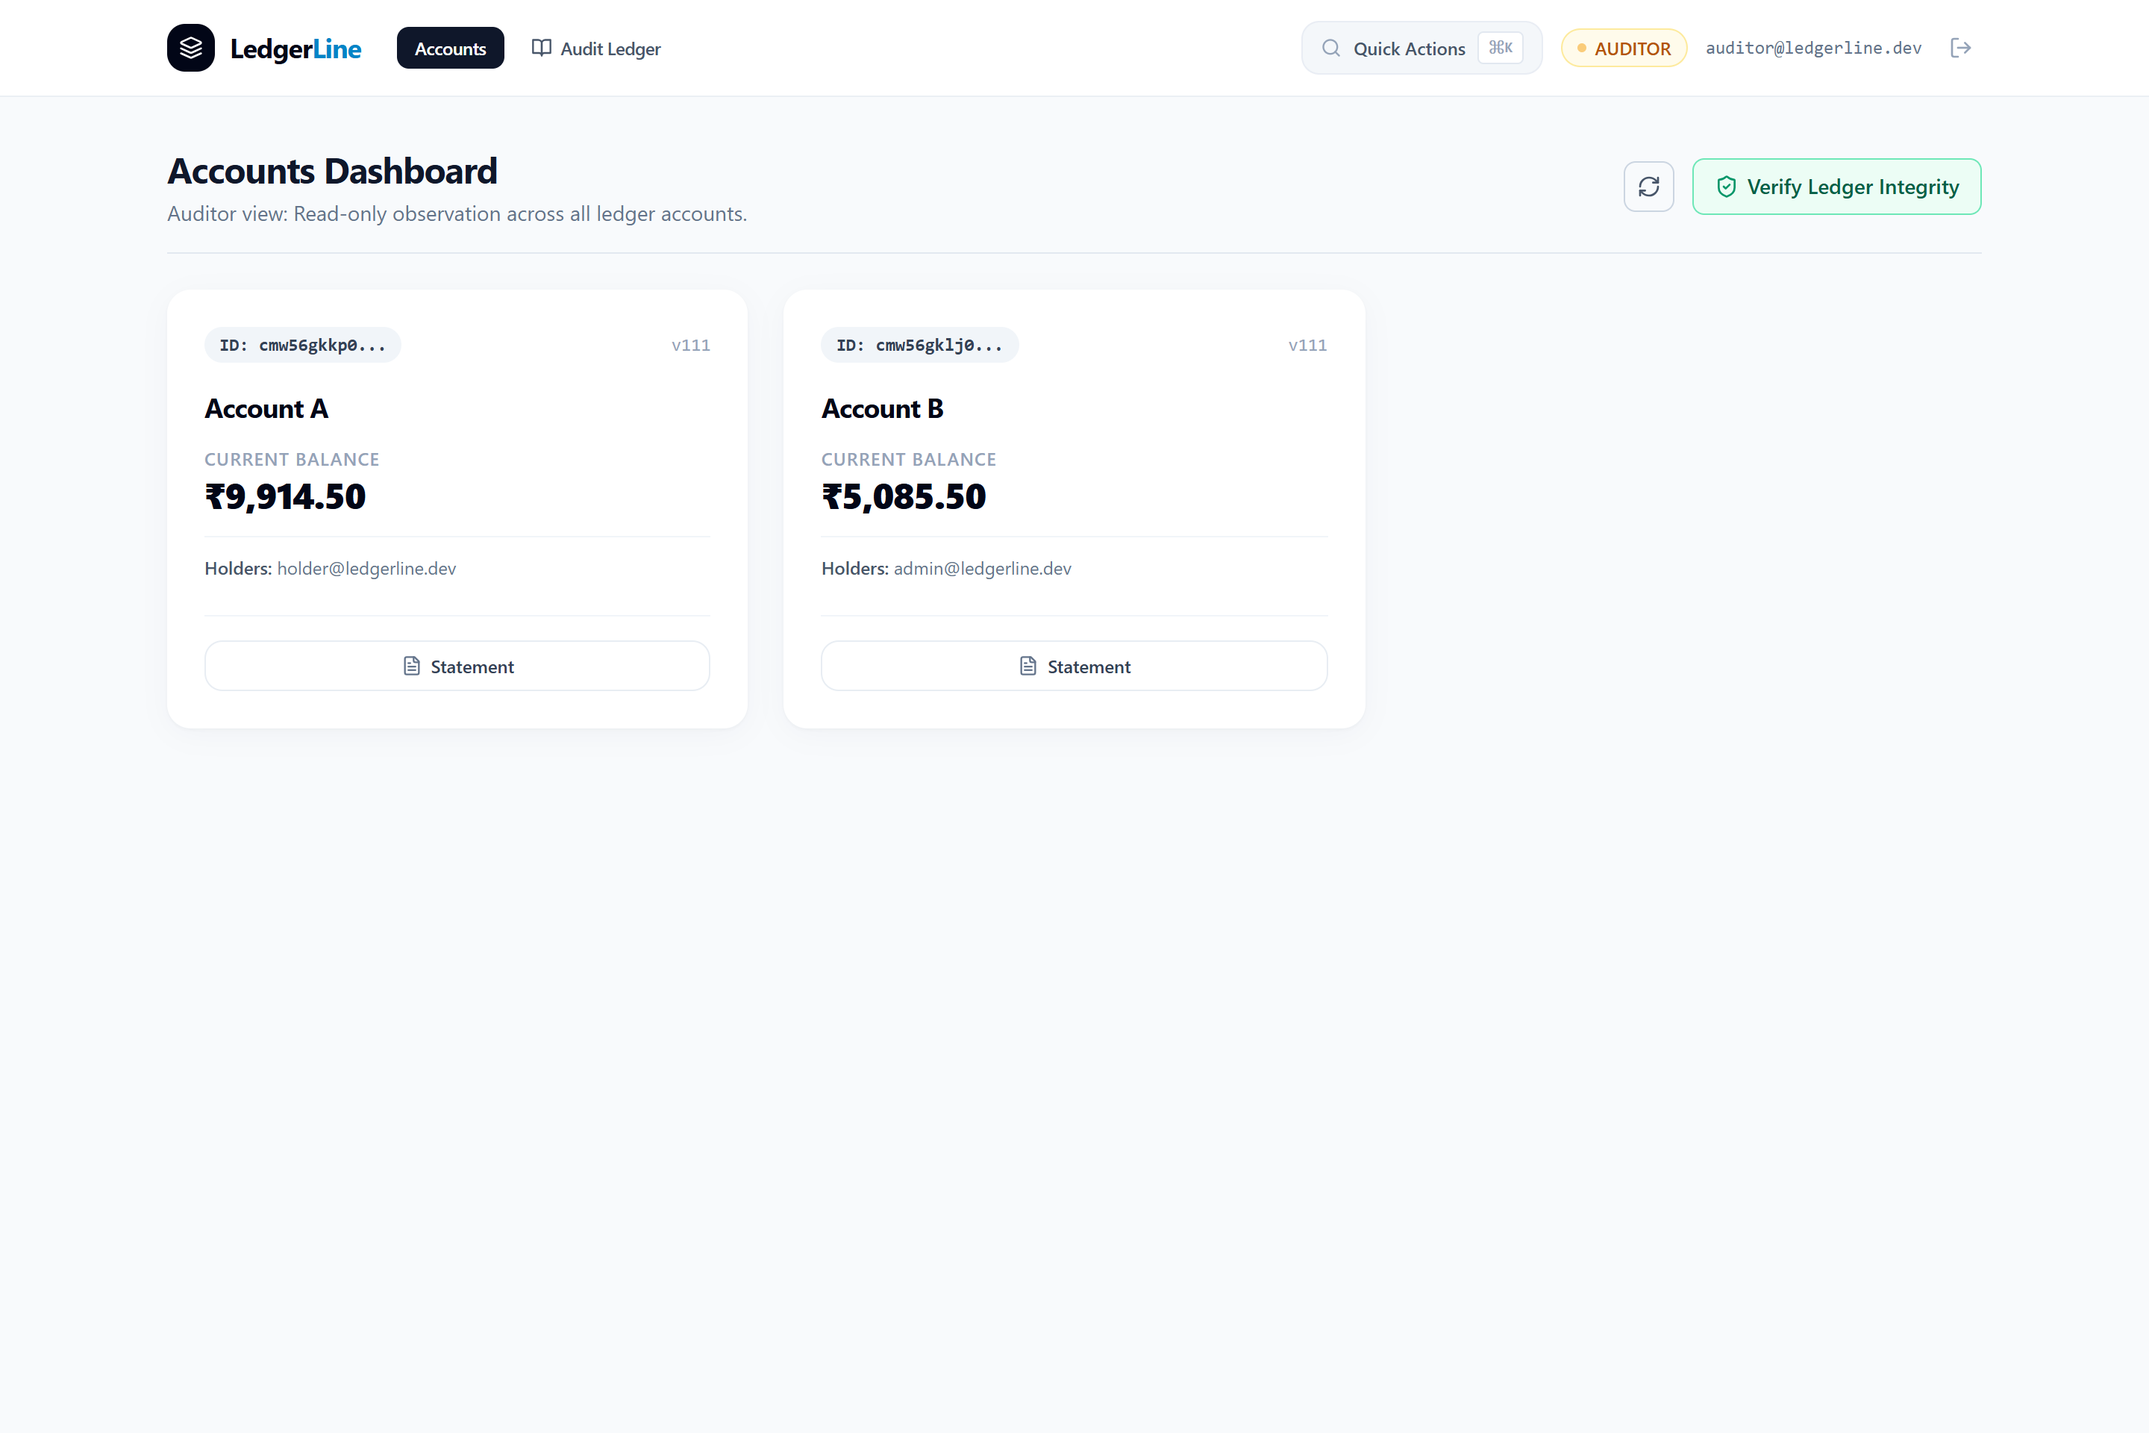
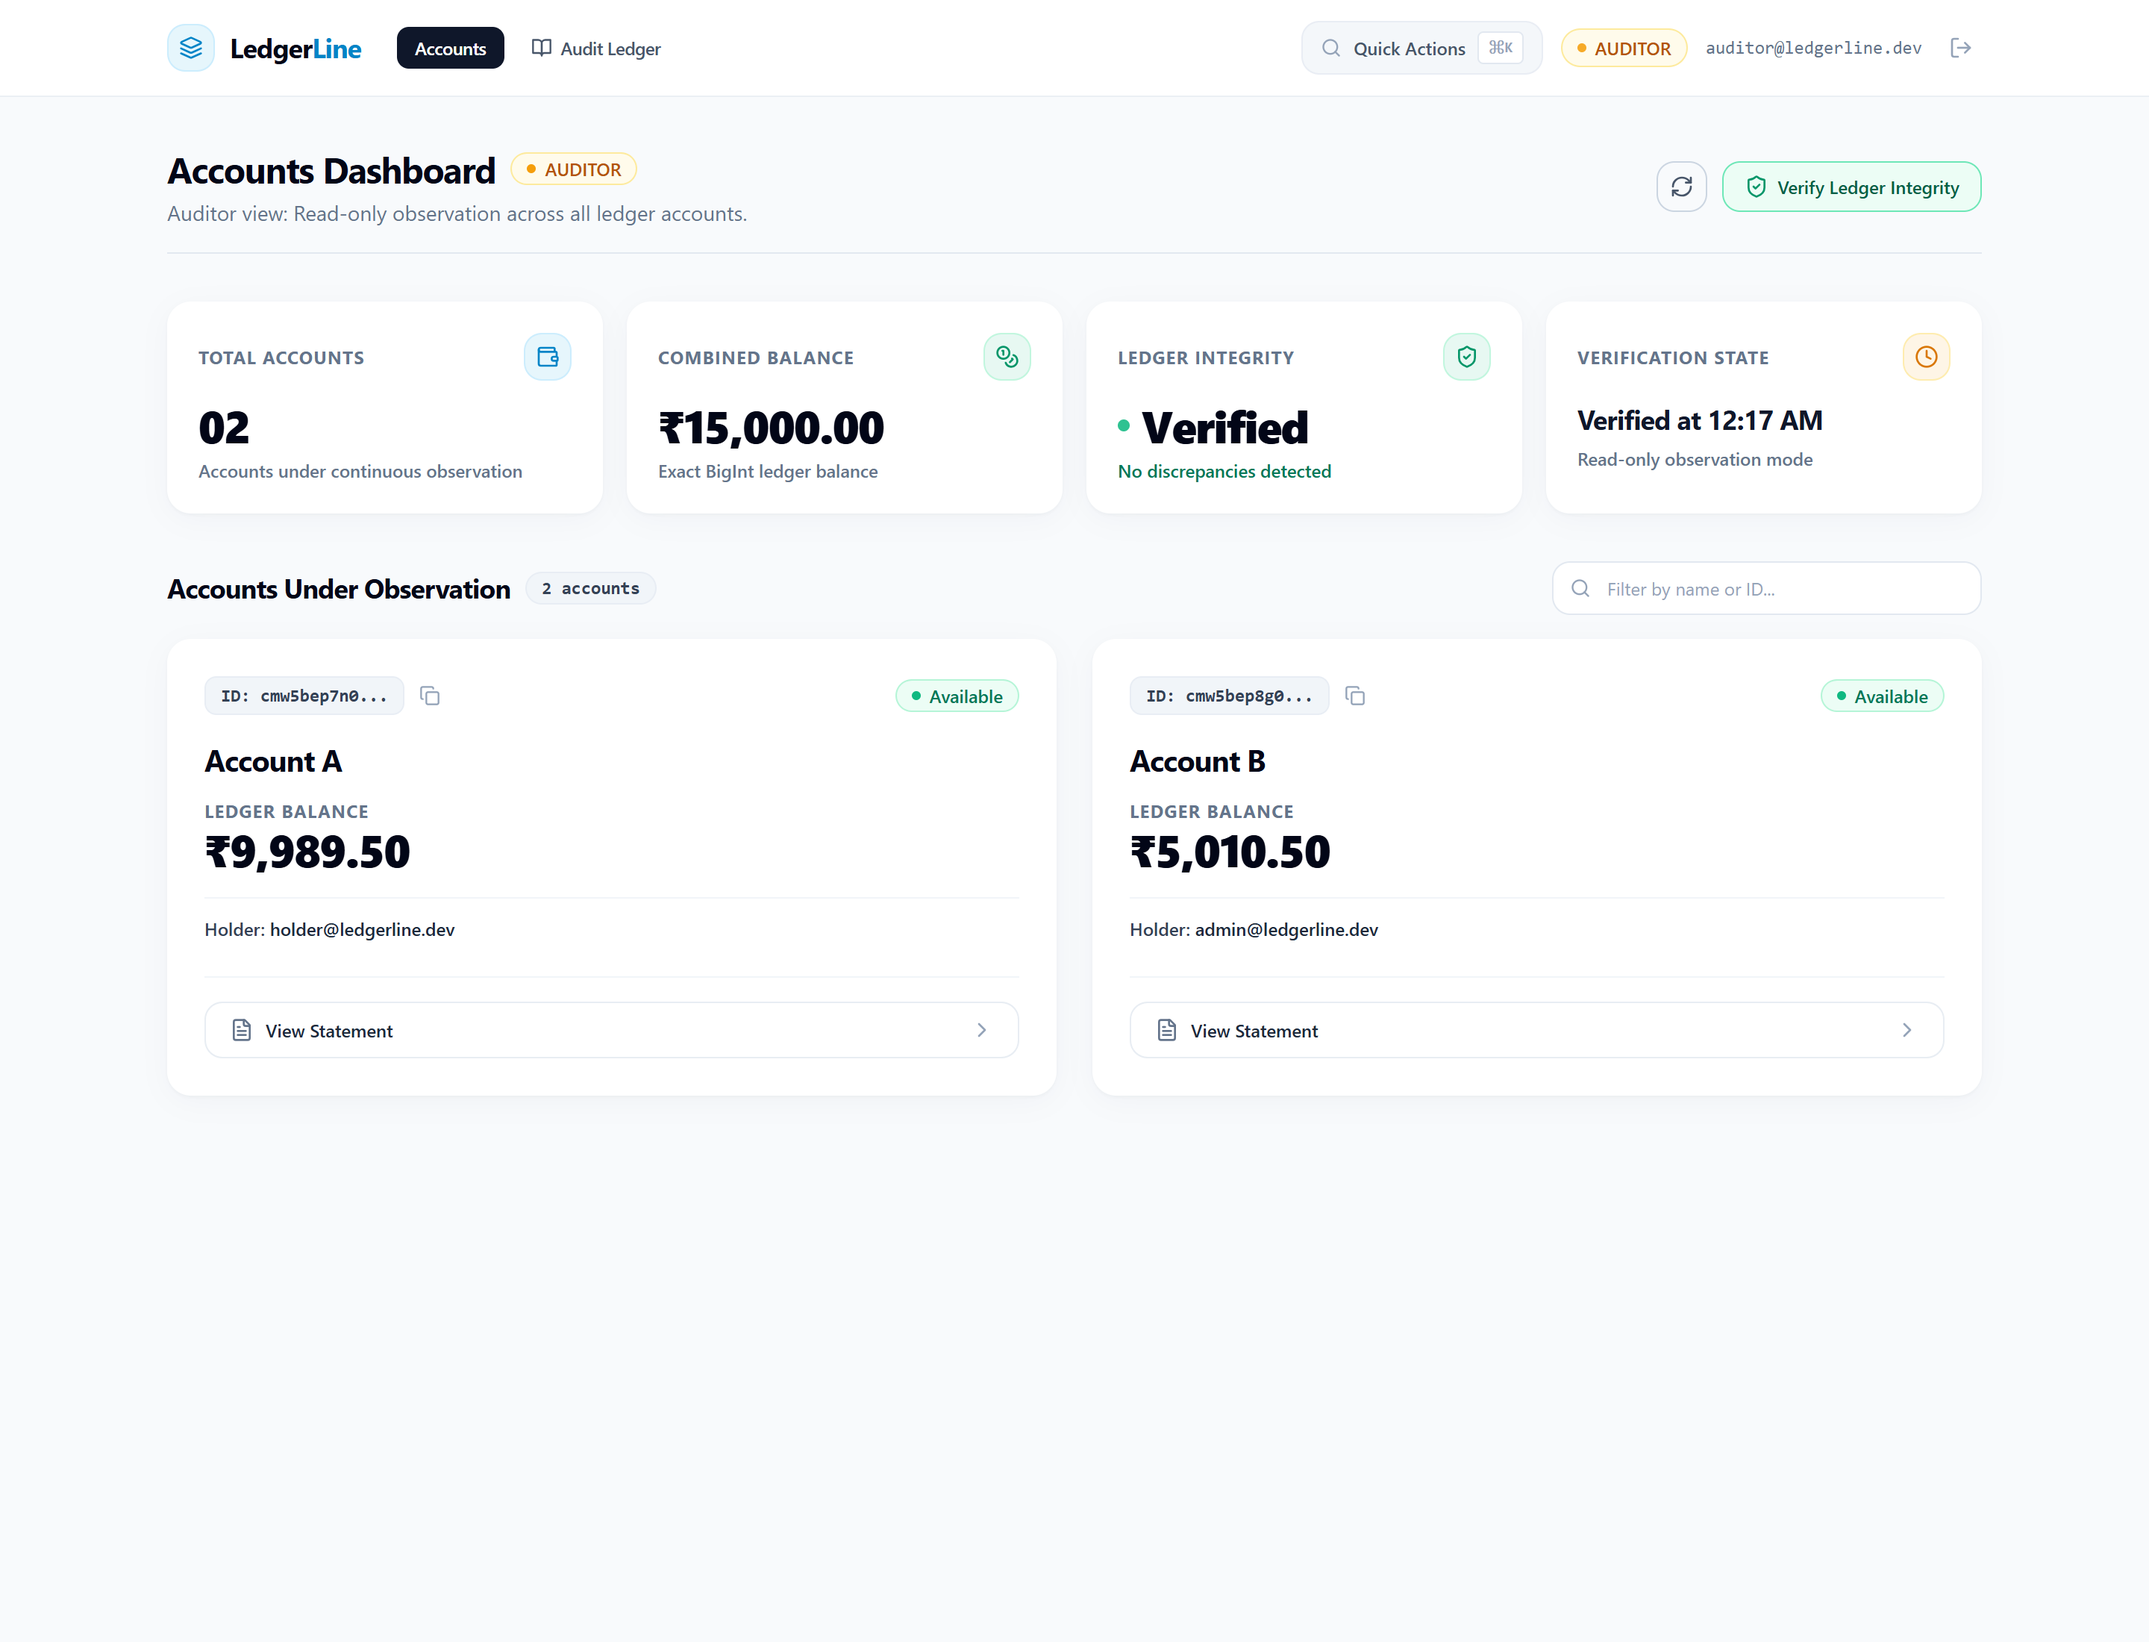
feat(dashboard): enhance Auditor Dashboard with read-only audit KPIs, system integrity telemetry, and account observation cards

diff --git a/apps/web/app/dashboard/page.tsx b/apps/web/app/dashboard/page.tsx
@@ -121,12 +121,23 @@ export default function DashboardPage() {
     try {
       setLoading(true);
       setError(null);
+      const currentUser = getUser();
       const data = await api.get<Account[]>('/accounts');
       setAccounts(data);
       setLastRefreshedAt(new Date());
 
+      // If user is an AUDITOR, proactively check system reconciliation
+      if (currentUser?.role === 'AUDITOR') {
+        try {
+          const recData = await api.get<SystemReconciliationResult>('/admin/reconcile-all');
+          setReconcileResult(recData);
+          setVerificationTimestamp(new Date().toLocaleTimeString([], { hour: '2-digit', minute: '2-digit' }));
+        } catch (recErr) {
+          console.error('Initial auditor reconciliation fetch error:', recErr);
+        }
+      }
+
       // If user is a HOLDER, fetch recent statements for their registered accounts
-      const currentUser = getUser();
       if (currentUser?.role === 'HOLDER' && data.length > 0) {
         setEntriesLoading(true);
         try {
@@ -498,6 +509,89 @@ export default function DashboardPage() {
             </p>
           </div>
         </div>
+      ) : user?.role === 'AUDITOR' ? (
+        <div className="grid grid-cols-1 sm:grid-cols-2 lg:grid-cols-4 gap-4">
+          {/* Auditor Card 1: Total Accounts Under Audit */}
+          <div className="glass-card rounded-2xl p-5 border border-slate-200/80 shadow-2xs">
+            <div className="flex items-center justify-between mb-3">
+              <span className="text-xs font-bold uppercase tracking-wider text-slate-500">
+                Total Accounts
+              </span>
+              <div className="h-8 w-8 rounded-xl bg-sky-500/10 text-sky-600 flex items-center justify-center border border-sky-200/60">
+                <Wallet className="h-4 w-4" />
+              </div>
+            </div>
+            <div className="text-2xl sm:text-3xl font-black tracking-tight-display text-slate-950 tabular-nums">
+              {accounts.length < 10 ? `0${accounts.length}` : accounts.length}
+            </div>
+            <p className="text-xs text-slate-500 mt-1 font-medium">
+              Accounts under continuous observation
+            </p>
+          </div>
+
+          {/* Auditor Card 2: Combined Ledger Balance */}
+          <div className="glass-card rounded-2xl p-5 border border-slate-200/80 shadow-2xs">
+            <div className="flex items-center justify-between mb-3">
+              <span className="text-xs font-bold uppercase tracking-wider text-slate-500">
+                Combined Balance
+              </span>
+              <div className="h-8 w-8 rounded-xl bg-emerald-500/10 text-emerald-600 flex items-center justify-center border border-emerald-200/60">
+                <Coins className="h-4 w-4" />
+              </div>
+            </div>
+            <div className="text-2xl sm:text-3xl font-black tracking-tight-display text-slate-950 tabular-nums">
+              {formatPaiseToRupees(combinedBalancePence.toString())}
+            </div>
+            <p className="text-xs text-slate-500 mt-1 font-medium">
+              Exact BigInt ledger balance
+            </p>
+          </div>
+
+          {/* Auditor Card 3: Ledger Integrity Verification Status */}
+          <div
+            onClick={handleVerifyIntegrity}
+            className="glass-card rounded-2xl p-5 border border-slate-200/80 shadow-2xs cursor-pointer hover:border-emerald-300 transition pressable"
+            role="button"
+            tabIndex={0}
+            title="Click to run full Genesis-to-Head ledger seal verification"
+          >
+            <div className="flex items-center justify-between mb-3">
+              <span className="text-xs font-bold uppercase tracking-wider text-slate-500">
+                Ledger Integrity
+              </span>
+              <div className="h-8 w-8 rounded-xl bg-emerald-500/10 text-emerald-600 flex items-center justify-center border border-emerald-200/60">
+                <ShieldCheck className="h-4 w-4" />
+              </div>
+            </div>
+            <div className="flex items-center space-x-2">
+              <span className="h-2 w-2 rounded-full bg-emerald-500 animate-pulse"></span>
+              <span className="text-2xl sm:text-3xl font-black tracking-tight-display text-slate-950">
+                {reconcileLoading ? 'Verifying...' : reconcileResult ? (reconcileResult.allMatch ? 'Verified' : 'Drift') : 'Verified'}
+              </span>
+            </div>
+            <p className="text-xs text-emerald-700 mt-1 font-medium">
+              {reconcileResult?.allMatch !== false ? 'No discrepancies detected' : 'Integrity discrepancy detected'}
+            </p>
+          </div>
+
+          {/* Auditor Card 4: Verification Timestamp & State */}
+          <div className="glass-card rounded-2xl p-5 border border-slate-200/80 shadow-2xs">
+            <div className="flex items-center justify-between mb-3">
+              <span className="text-xs font-bold uppercase tracking-wider text-slate-500">
+                Verification State
+              </span>
+              <div className="h-8 w-8 rounded-xl bg-amber-500/10 text-amber-600 flex items-center justify-center border border-amber-200/60">
+                <Clock className="h-4 w-4" />
+              </div>
+            </div>
+            <div className="text-base sm:text-lg font-bold tracking-tight text-slate-900 truncate">
+              {verificationTimestamp ? `Verified at ${verificationTimestamp}` : 'Verified just now'}
+            </div>
+            <p className="text-xs text-slate-500 mt-1 font-medium">
+              Read-only observation mode
+            </p>
+          </div>
+        </div>
       ) : (
         <div className="grid grid-cols-1 sm:grid-cols-2 lg:grid-cols-4 gap-4">
         {/* Metric 1: Total Accounts */}
@@ -588,7 +682,11 @@ export default function DashboardPage() {
         <div className="flex flex-col sm:flex-row sm:items-center sm:justify-between gap-3">
           <div className="flex items-center space-x-2.5">
             <h2 className="text-lg font-bold tracking-tight-display text-slate-950">
-              {user?.role === 'HOLDER' ? 'Your Accounts' : 'All Accounts'}
+              {user?.role === 'HOLDER'
+                ? 'Your Accounts'
+                : user?.role === 'AUDITOR'
+                ? 'Accounts Under Observation'
+                : 'All Accounts'}
             </h2>
             <span className="px-2.5 py-0.5 rounded-full text-xs font-bold bg-slate-100 text-slate-700 border border-slate-200/60 font-mono">
               {filteredAccounts.length} {filteredAccounts.length === 1 ? 'account' : 'accounts'}
@@ -636,7 +734,7 @@ export default function DashboardPage() {
             </p>
           </div>
         ) : (
-          <div className="grid grid-cols-1 md:grid-cols-2 lg:grid-cols-3 gap-6">
+          <div className="grid grid-cols-1 md:grid-cols-2 gap-6">
             {filteredAccounts.map((acc) => {
               const balanceNum = Number(acc.balancePence);
               const isNegative = balanceNum < 0;
@@ -673,10 +771,10 @@ export default function DashboardPage() {
                         </button>
                       </div>
 
-                      {user?.role === 'HOLDER' ? (
+                      {user?.role === 'HOLDER' || user?.role === 'AUDITOR' ? (
                         <span className="inline-flex items-center gap-1.5 text-xs font-semibold px-2.5 py-0.5 rounded-full bg-emerald-50 text-emerald-700 border border-emerald-200/80">
                           <span className="h-1.5 w-1.5 rounded-full bg-emerald-500"></span>
-                          Active
+                          Available
                         </span>
                       ) : (
                         <span
@@ -695,7 +793,7 @@ export default function DashboardPage() {
                     {/* Balance Display */}
                     <div className="mt-3">
                       <span className="text-xs font-bold uppercase tracking-wider text-slate-500 block">
-                        Current Balance
+                        {user?.role === 'AUDITOR' ? 'Ledger Balance' : 'Current Balance'}
                       </span>
                       <span
                         className={`text-3xl font-black tracking-tight-display tabular-nums ${
@@ -712,9 +810,9 @@ export default function DashboardPage() {
                       </p>
                     )}
 
-                    {acc.holders && (user?.role !== 'HOLDER' || acc.holders.length > 1) && (
+                    {acc.holders && (
                       <div className="mt-3.5 pt-3 border-t border-slate-100 text-xs text-slate-600">
-                        <span className="font-semibold text-slate-700">Holders:</span>{' '}
+                        <span className="font-semibold text-slate-700">Holder:</span>{' '}
                         <span className="font-medium text-slate-800">
                           {acc.holders.map((h) => h.user.email).join(', ')}
                         </span>
@@ -723,8 +821,22 @@ export default function DashboardPage() {
                   </div>
 
                   {/* Card Actions */}
-                  <div className="mt-6 pt-4 border-t border-slate-100 flex items-center justify-between gap-2.5">
-                    {user?.role !== 'AUDITOR' && (
+                  {user?.role === 'AUDITOR' ? (
+                    <div className="mt-6 pt-4 border-t border-slate-100">
+                      <Link
+                        href={`/accounts/${acc.id}`}
+                        title={`Inspect read-only statement and cryptographic proofs for ${acc.name}`}
+                        className="w-full inline-flex justify-between items-center py-2.5 px-4 border border-slate-200/80 rounded-xl text-xs font-semibold text-slate-800 bg-white hover:bg-slate-50 transition pressable shadow-2xs group"
+                      >
+                        <div className="flex items-center space-x-2">
+                          <FileText className="h-4 w-4 text-slate-500" />
+                          <span>View Statement</span>
+                        </div>
+                        <ChevronRight className="h-4 w-4 text-slate-400 group-hover:translate-x-0.5 transition" />
+                      </Link>
+                    </div>
+                  ) : (
+                    <div className="mt-6 pt-4 border-t border-slate-100 flex items-center justify-between gap-2.5">
                       <Link
                         href={`/accounts/${acc.id}/transfer`}
                         title={`Initiate a transfer from ${acc.name}`}
@@ -733,17 +845,17 @@ export default function DashboardPage() {
                         <ArrowRightLeft className="mr-1.5 h-3.5 w-3.5" />
                         Transfer
                       </Link>
-                    )}
 
-                    <Link
-                      href={`/accounts/${acc.id}`}
-                      title="View historical statement and immutable ledger entries"
-                      className="flex-1 inline-flex justify-center items-center py-2.5 px-3 border border-slate-200/80 rounded-xl text-xs font-semibold text-slate-700 hover:bg-slate-50 transition pressable shadow-2xs"
-                    >
-                      <FileText className="mr-1.5 h-3.5 w-3.5 text-slate-500" />
-                      Statement
-                    </Link>
-                  </div>
+                      <Link
+                        href={`/accounts/${acc.id}`}
+                        title="View historical statement and immutable ledger entries"
+                        className="flex-1 inline-flex justify-center items-center py-2.5 px-3 border border-slate-200/80 rounded-xl text-xs font-semibold text-slate-700 hover:bg-slate-50 transition pressable shadow-2xs"
+                      >
+                        <FileText className="mr-1.5 h-3.5 w-3.5 text-slate-500" />
+                        Statement
+                      </Link>
+                    </div>
+                  )}
                 </div>
               );
             })}

diff --git a/apps/api/src/routes/admin.ts b/apps/api/src/routes/admin.ts
@@ -10,10 +10,9 @@ import { executeTransfer } from '../services/transferService';
 const router = Router();
 
 router.use(authenticate);
-router.use(requireRole(Role.ADMIN));
 
-// GET /admin/reconcile-all - ADMIN only
-router.get('/reconcile-all', async (req: Request, res: Response) => {
+// GET /admin/reconcile-all - ADMIN and AUDITOR system-wide integrity reconciliation
+router.get('/reconcile-all', requireRole(Role.ADMIN, Role.AUDITOR), async (req: Request, res: Response) => {
   try {
     const result = await reconcileAllAccounts();
     return res.status(200).json(result);
@@ -23,8 +22,8 @@ router.get('/reconcile-all', async (req: Request, res: Response) => {
   }
 });
 
-// POST /admin/simulate-stress - Live real-time concurrency stress & ACID telemetry
-router.post('/simulate-stress', async (req: Request, res: Response) => {
+// POST /admin/simulate-stress - Live real-time concurrency stress & ACID telemetry (ADMIN only)
+router.post('/simulate-stress', requireRole(Role.ADMIN), async (req: Request, res: Response) => {
   try {
     const concurrency = Math.min(Math.max(Number(req.body?.concurrency) || 10, 2), 50);
     const amountPence = BigInt(req.body?.amountPence || 100); // Default ₹1.00

diff --git a/apps/api/tests/reconciliation.test.ts b/apps/api/tests/reconciliation.test.ts
@@ -62,7 +62,7 @@ describe('Double-Entry Reconciliation Invariant Suite', () => {
     expect(res.status).toBe(403);
   });
 
-  it('system-wide reconcile-all succeeds for ADMIN and blocks non-ADMIN', async () => {
+  it('system-wide reconcile-all succeeds for ADMIN and AUDITOR and blocks HOLDER', async () => {
     const adminRes = await request(app)
       .get('/admin/reconcile-all')
       .set('Authorization', `Bearer ${adminToken}`);
@@ -76,7 +76,14 @@ describe('Double-Entry Reconciliation Invariant Suite', () => {
       .get('/admin/reconcile-all')
       .set('Authorization', `Bearer ${auditorToken}`);
 
-    expect(auditorRes.status).toBe(403);
+    expect(auditorRes.status).toBe(200);
+    expect(auditorRes.body.allMatch).toBe(true);
+
+    const holderRes = await request(app)
+      .get('/admin/reconcile-all')
+      .set('Authorization', `Bearer ${holderToken}`);
+
+    expect(holderRes.status).toBe(403);
   });
 
   it('deliberately corrupts Account.balancePence via raw SQL and confirms reconcile detects discrepancy', async () => {
